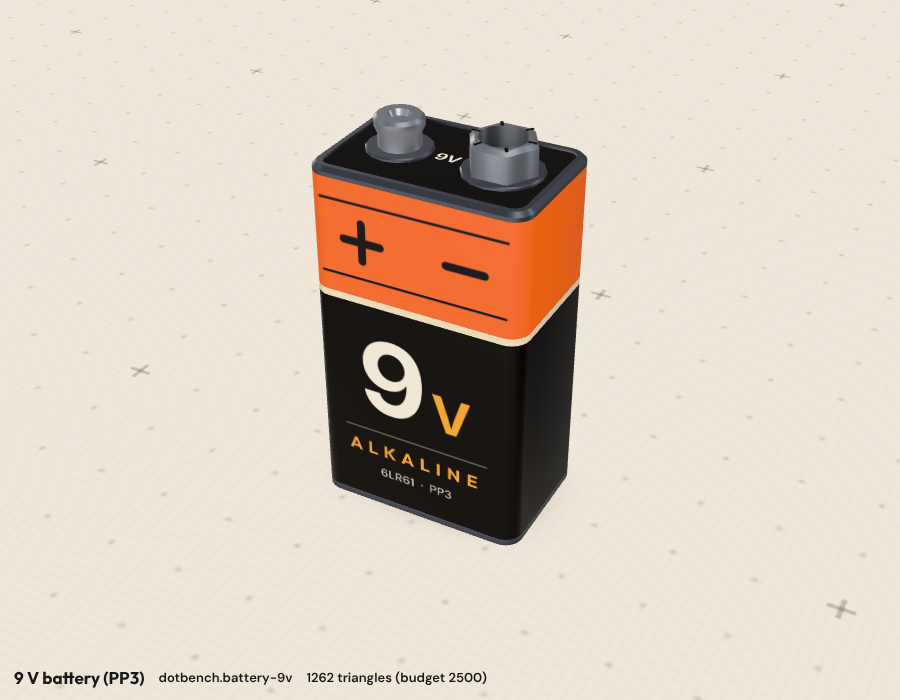
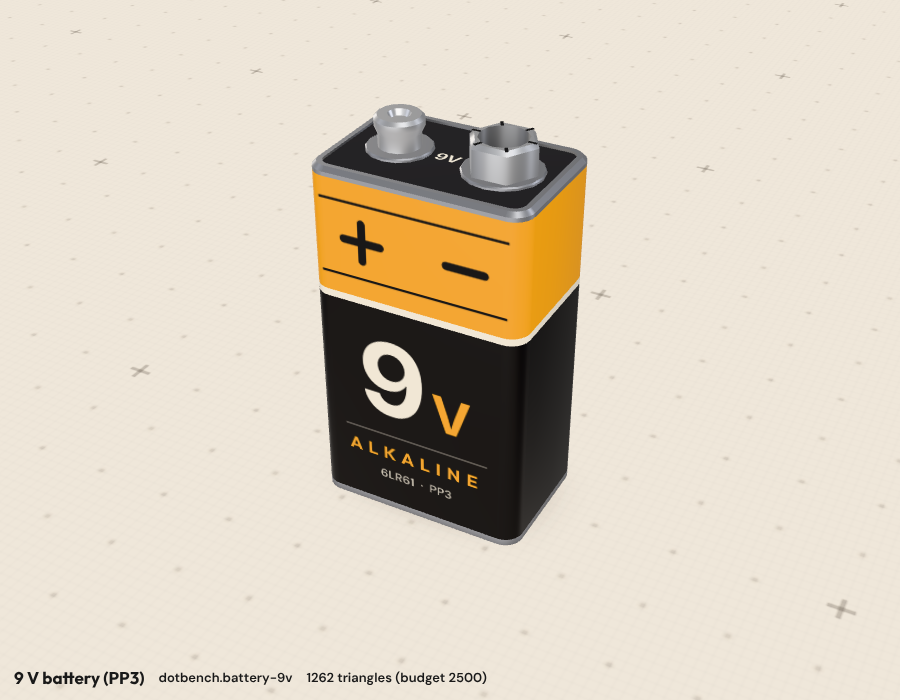
Bench3D: breadboards, battery and supply rebuilt on the corrected manifests
Breadboards: mouldings fill the footprint (the body excludes the tabs), slots
stay on the left and back edges, protruding tabs are not built; rails are red
(+) over blue (-) on both pairs with the lines where the picture has them.
Battery and supply: the hazard look is driven by the declared overload output.
The family's own colours are sRGB as they should look, for a kit that converts
a hex colour once (the fix pending on main); the shots were rendered that way.

diff --git a/web/src/bench3d/models/breadboards/breadboard.ts b/web/src/bench3d/models/breadboards/breadboard.ts
@@ -14,9 +14,14 @@
  * - Rail lines, + and - signs, column numbers and row letters are PRINT (one decal per 1024 px of board length).
  *
  * The body is the usual three mouldings (two rail strips and the terminal block with its centre channel) joined
- * along two seams, dovetail tabs on the right and front, matching slots on the left and back, foam tape underneath.
- * Sizes after the MB-102 family: holes 1.1 mm square under a 1.66 mm lead-in, channel 3 mm wide, body 8.5 mm high.
- * The tabs must stay inside the manifest's footprint, so the mouldings are 1.2 mm smaller all round than the footprint.
+ * along two seams, foam tape underneath. Sizes after the MB-102 family: holes 1.1 mm square under a 1.66 mm lead-in,
+ * channel 3 mm wide, body 8.5 mm high.
+ * Dovetails: the manifest's body is the moulding WITHOUT its tabs, and a model may not leave its footprint, so the
+ * mouldings fill the footprint, the slots are cut in the left and back edges, and the tabs of the right and front
+ * edges are not built (they would stand 1.1 mm outside; on boards placed side by side they are inside the
+ * neighbour's slots anyway).
+ * Rails: in each pair the row further from the viewer is + (red line), the nearer one - (blue), the lines on the
+ * outside of the pair, as in the parts' picture.svg.
  */
 import { MeshBuilder, type V3 } from '../../../device3d/meshBuilder';
 import {
@@ -25,7 +30,8 @@ import {
 } from '../../index';
 import { extrude, face, roundLoop, type Rect } from './builders';
 
-const BODY_WHITE = '#ebeef1';
+// Colours are sRGB as they should look (the kit converts a hex colour to linear once).
+const BODY_WHITE = '#d4dae0';
 
 /** What the builder reads of parts/breadboard-<size>/manifest.json. */
 export interface BoardManifest {
@@ -37,8 +43,8 @@ export interface BoardManifest {
 
 // ---- the moulding (design values; everything about the holes' places comes from the manifest)
 const BODY: Finish = ['gloss', BODY_WHITE]; // ABS has a sheen; a cool white, so the board stands off the warm table
-const INSET = 1.2; // the mouldings stop this far inside the footprint: room for the tabs
-const TAB = 1.1; // how far a dovetail tab stands out
+const SLOT = 1.1; // how deep a dovetail slot is cut
+const RAIL_LINE = 2.1; // from a rail row to its coloured line
 const FOAM = 0.9; // the adhesive foam and its backing paper
 const BEVEL = 0.32;
 const SEAM_R = 0.55; // the corners of each moulding where two meet: the seam reads as a fine groove down the side
@@ -66,7 +72,7 @@ interface Layout {
   Z: number;
   rails: Trough[];
   strips: Trough[];
-  /** z of each rail row, sorted, and whether its line is red (+, the outer row) or blue (-). */
+  /** z of each rail row, sorted, and whether it is + (red line; the back row of its pair) or - (blue). */
   railRows: { z: number; plus: boolean; x0: number; x1: number; lineZ: number }[];
   /** x of every column of the terminal block with its number, z of every row with its letter. */
   cols: { x: number; n: number }[];
@@ -74,8 +80,9 @@ interface Layout {
   seamTop: number;
   seamBot: number;
   mid: number;
-  tabsX: number[];
-  tabsZ: number[];
+  /** Where the dovetail slots are: along the back edge (x) and the left edge (z). */
+  slotsX: number[];
+  slotsZ: number[];
 }
 
 const near = (a: number, b: number) => Math.abs(a - b) < 0.02;
@@ -108,7 +115,7 @@ export function layoutOf(m: BoardManifest): Layout {
     split.push({ ...t, u: run });
   }
   const rails = split.filter((t) => t.alongX), strips = split.filter((t) => !t.alongX);
-  const X = body.w_mm / 2 - INSET, Z = body.d_mm / 2 - INSET;
+  const X = body.w_mm / 2, Z = body.d_mm / 2;
   const railZ = [...new Set(rails.map((t) => t.v))].sort((a, b) => a - b);
   const rowZ = [...new Set(strips.flatMap((t) => t.u))].sort((a, b) => a - b);
   const colX = [...new Set(strips.map((t) => t.v))].sort((a, b) => a - b);
@@ -118,9 +125,8 @@ export function layoutOf(m: BoardManifest): Layout {
   const railRows = railZ.map((z) => {
     const mine = rails.filter((t) => t.v === z);
     const pair = z < mid ? topRails : botRails;
-    const outer = Math.abs(z - mid) === Math.max(...pair.map((q) => Math.abs(q - mid)));
     const away = Math.sign(z - pair.reduce((a, q) => a + q, 0) / pair.length) || Math.sign(z - mid);
-    return { z, plus: outer, x0: Math.min(...mine.map((t) => t.u[0])), x1: Math.max(...mine.map((t) => t.u[t.u.length - 1])), lineZ: z + away * 1.42 };
+    return { z, plus: z === Math.min(...pair), x0: Math.min(...mine.map((t) => t.u[0])), x1: Math.max(...mine.map((t) => t.u[t.u.length - 1])), lineZ: z + away * RAIL_LINE };
   });
   // the names say which column and row a hole is: "c17" is row c, column 17
   const cols = colX.map((x) => {
@@ -131,10 +137,10 @@ export function layoutOf(m: BoardManifest): Layout {
     const pin = m.pins.find((p) => p.mm && /^[a-z]\d+$/.test(p.name) && near(fromManifestMm(body, p.mm)[2], z))!;
     return { z, letter: pin.name[0] };
   });
-  const nTabs = Math.max(2, Math.round((2 * X) / 41));
-  const tabsX = Array.from({ length: nTabs }, (_, k) => ((k + 0.5) / nTabs - 0.5) * 2 * X);
-  const tabsZ = [(seamTop + mid - TRENCH / 2) / 2, (seamBot + mid + TRENCH / 2) / 2];
-  return { body, pitch, X, Z, rails, strips, railRows, cols, rows, seamTop, seamBot, mid, tabsX, tabsZ };
+  const nSlots = Math.max(2, Math.round((2 * X) / 41));
+  const slotsX = Array.from({ length: nSlots }, (_, k) => ((k + 0.5) / nSlots - 0.5) * 2 * X);
+  const slotsZ = [(seamTop + mid - TRENCH / 2) / 2, (seamBot + mid + TRENCH / 2) / 2];
+  return { body, pitch, X, Z, rails, strips, railRows, cols, rows, seamTop, seamBot, mid, slotsX, slotsZ };
 }
 
 // ------------------------------------------------------------------------------------------------- geometry
@@ -153,11 +159,11 @@ function outline(r: Rect, o: { slotsBack?: number[]; slotsLeft?: number[]; radii
   };
   // back edge from left to right, then down the right, along the front, up the left
   add(r.x0, r.z0, o.radii[0]);
-  for (const c of o.slotsBack ?? []) for (const [a, k] of dovetail(c, 0.1)) add(a, r.z0 + k * (TAB + 0.1), k ? 0.15 : 0);
+  for (const c of o.slotsBack ?? []) for (const [a, k] of dovetail(c, 0.1)) add(a, r.z0 + k * SLOT, k ? 0.15 : 0);
   add(r.x1, r.z0, o.radii[1]);
   add(r.x1, r.z1, o.radii[2]);
   add(r.x0, r.z1, o.radii[3]);
-  for (const c of [...(o.slotsLeft ?? [])].reverse()) for (const [a, k] of dovetail(c, 0.1).reverse()) add(r.x0 + k * (TAB + 0.1), a, k ? 0.15 : 0);
+  for (const c of [...(o.slotsLeft ?? [])].reverse()) for (const [a, k] of dovetail(c, 0.1).reverse()) add(r.x0 + k * SLOT, a, k ? 0.15 : 0);
   return roundLoop(pts, rad, 3);
 }
 
@@ -230,9 +236,9 @@ function buildBody(L: Layout, ctx: BuildCtx): Shape {
 
   // the four mouldings that carry holes, each with its field of holes left open in the top
   const pieces: { r: Rect; slotsBack?: number[]; slotsLeft?: number[]; radii: [number, number, number, number]; of: Trough[]; rail: boolean }[] = [
-    { r: { x0: -X, x1: X, z0: -Z, z1: seamTop - SEAM / 2 }, slotsBack: L.tabsX, radii: [1.1, 1.1, SEAM_R, SEAM_R], of: L.rails.filter((t) => t.v < mid), rail: true },
-    { r: { x0: -X, x1: X, z0: seamTop + SEAM / 2, z1: mid - TRENCH / 2 }, slotsLeft: [L.tabsZ[0]], radii: [SEAM_R, SEAM_R, SEAM_R, SEAM_R], of: L.strips.filter((t) => t.u[0] < mid), rail: false },
-    { r: { x0: -X, x1: X, z0: mid + TRENCH / 2, z1: seamBot - SEAM / 2 }, slotsLeft: [L.tabsZ[1]], radii: [SEAM_R, SEAM_R, SEAM_R, SEAM_R], of: L.strips.filter((t) => t.u[0] > mid), rail: false },
+    { r: { x0: -X, x1: X, z0: -Z, z1: seamTop - SEAM / 2 }, slotsBack: L.slotsX, radii: [1.1, 1.1, SEAM_R, SEAM_R], of: L.rails.filter((t) => t.v < mid), rail: true },
+    { r: { x0: -X, x1: X, z0: seamTop + SEAM / 2, z1: mid - TRENCH / 2 }, slotsLeft: [L.slotsZ[0]], radii: [SEAM_R, SEAM_R, SEAM_R, SEAM_R], of: L.strips.filter((t) => t.u[0] < mid), rail: false },
+    { r: { x0: -X, x1: X, z0: mid + TRENCH / 2, z1: seamBot - SEAM / 2 }, slotsLeft: [L.slotsZ[1]], radii: [SEAM_R, SEAM_R, SEAM_R, SEAM_R], of: L.strips.filter((t) => t.u[0] > mid), rail: false },
     { r: { x0: -X, x1: X, z0: seamBot + SEAM / 2, z1: Z }, radii: [SEAM_R, SEAM_R, 1.1, 1.1], of: L.rails.filter((t) => t.v > mid), rail: true },
   ];
   for (const p of pieces) {
@@ -265,12 +271,8 @@ function buildBody(L: Layout, ctx: BuildCtx): Shape {
   }
   s.add(BODY[0], BODY[1], shade.build());
   // the seams: a rail strip is a moulding of its own, a dark line runs between it and the terminal block
-  for (const z of [seamTop, seamBot]) s.box('matte', '#5d6066', 0, z, 2 * X - 0.5, SEAM + 0.2, FOAM, top - 0.75, 0.05, 0, { ao: 0.7 });
+  for (const z of [seamTop, seamBot]) s.box('matte', '#1e2024', 0, z, 2 * X - 0.5, SEAM + 0.2, FOAM, top - 0.75, 0.05, 0, { ao: 0.7 });
 
-  // dovetail tabs: on the right edge of the terminal block and along the front rail strip
-  const tabTop = top - 1.5;
-  for (const z of L.tabsZ) s.prism(...BODY, dovetail(z, 0).map(([a, k]) => [X - 0.3 + k * (TAB + 0.3), a] as Pt), FOAM, tabTop, 0.2, { ao: 0.6 });
-  for (const x of L.tabsX) s.prism(...BODY, dovetail(x, 0).map(([a, k]) => [a, Z - 0.3 + k * (TAB + 0.3)] as Pt), FOAM, tabTop, 0.2, { ao: 0.6 });
   return s;
 }
 
@@ -311,7 +313,8 @@ function legends(L: Layout, g: CanvasRenderingContext2D): void {
   }
   // row letters at both ends
   const x0 = L.cols[0].x, x1 = L.cols[L.cols.length - 1].x;
-  const off = Math.min(1.95, (x0 + L.X) / 2 + 0.47);
+  // between the bottom of a slot and the mouths of the first column
+  const off = Math.min(1.95, (x0 - OPEN + L.X - SLOT) / 2 + OPEN);
   for (const r of L.rows) {
     text(g, r.letter, x0 - off, r.z + 0.05, 1.55, { weight: 700, font: FONT });
     text(g, r.letter, x1 + off, r.z + 0.05, 1.55, { weight: 700, font: FONT });

diff --git a/web/src/bench3d/models/breadboards/battery-9v.model.ts b/web/src/bench3d/models/breadboards/battery-9v.model.ts
@@ -3,8 +3,8 @@
  * stud is +, the six-sided crown is -. A lacquered steel jacket with rolled rims and a generic label: a coloured
  * band with the polarity, the voltage, the chemistry and the size codes; no name and no mark of any maker.
  * Live state: the voltage (field `volts`) is the big numeral of the label and the small one between the snaps, where
- * the part's picture shows it. Hazard: above the manifest's `max_ma` the cell overheats: a red-hot glow that beats
- * faster and stronger up to a dead short.
+ * the part's picture shows it. Hazard: while the part's output `overload` is set (above the manifest's `max_ma`, or
+ * plus wired to minus) the cell overheats: a red-hot glow that beats faster and stronger up to a dead short.
  */
 import manifest from '../../../../../parts/battery-9v/manifest.json';
 import {
@@ -23,7 +23,7 @@ const PLATE = M.body.h_mm - 4.1; // the snaps stand 4.1 mm over the top plate
 const RIM = PLATE + 0.3;
 const BAND = 29.6; // where the amber band of the label begins
 
-const CREAM = '#f5eede', GRAPHITE = '#1c1c1f', AMBER = '#ffac00';
+const CREAM = '#f5eede', GRAPHITE = '#121214', AMBER = '#ffac00';
 
 // the numerals are drawn per copy; `animate` may not allocate, so the value travels here
 const pen = { volts: DEFAULT_VOLTS };
@@ -152,13 +152,13 @@ export default defineModel<PartState>({
     drawScreen(obj, 'volts', key, drawFront);
     drawScreen(obj, 'top', key, drawTop);
     const heat = part(obj, 'heat')!;
-    const ma = Math.abs(Number(st.outputs.current_ma ?? 0));
-    if (ma <= MAX_MA) {
+    if (!st.outputs.overload) {
       heat.visible = false;
       return;
     }
-    // 0 just over the limit, 1 at a dead short (several times the limit)
-    const over = Math.min(1, (ma - MAX_MA) / (MAX_MA * 4));
+    // how hard: 0 just over the limit, 1 at a dead short (several times the limit)
+    const ma = Math.abs(Number(st.outputs.current_ma ?? 0));
+    const over = Math.min(1, Math.max(0, (ma - MAX_MA) / (MAX_MA * 4)));
     const beat = 0.5 + 0.5 * Math.sin(env.time * (6 + over * 12));
     heat.visible = true;
     heat.scale.set(1 + 0.012 * beat, 1, 1 + 0.02 * beat);
@@ -169,7 +169,7 @@ export default defineModel<PartState>({
     idle: partState({ fields: { volts: DEFAULT_VOLTS }, outputs: { current_ma: 0 } }),
     'set-7v5': partState({ fields: { volts: 7.5 }, outputs: { current_ma: 20 } }),
     loaded: partState({ fields: { volts: DEFAULT_VOLTS }, outputs: { current_ma: 320 } }),
-    overload: partState({ fields: { volts: DEFAULT_VOLTS }, outputs: { current_ma: 800 } }),
-    short: partState({ fields: { volts: DEFAULT_VOLTS }, outputs: { current_ma: 4500 } }),
+    overload: partState({ fields: { volts: DEFAULT_VOLTS }, outputs: { current_ma: 800, overload: true } }),
+    short: partState({ fields: { volts: DEFAULT_VOLTS }, outputs: { current_ma: 4500, overload: true } }),
   },
 });

diff --git a/web/src/bench3d/models/breadboards/supply.model.ts b/web/src/bench3d/models/breadboards/supply.model.ts
@@ -4,8 +4,9 @@
  * 3.3 V or 5 V. The module built round that (it is our own design, no real product): USB-C power in on the left
  * edge, a three-way slide switch along the front (OFF / 3V3 / 5V), a two-way socket for the output where the
  * terminals are, a linear regulator in SOT-223 with its two tantalum capacitors, a power LED.
- * Live state: the knob stands at the chosen output, the LED is lit when there is one. Hazard: above the manifest's
- * `max_ma` the regulator glows red-hot and the LED flickers red.
+ * Live state: the knob stands at the chosen output, the LED is lit when there is one. Hazard: while the part's
+ * output `overload` is set (above the manifest's `max_ma`, or plus wired to minus) the regulator glows red-hot and
+ * the LED flickers red.
  */
 import manifest from '../../../../../parts/supply/manifest.json';
 import {
@@ -86,8 +87,8 @@ export default defineModel<PartState>({
     for (let i = 1; i < STOPS.length; i++) if (Math.abs(STOPS[i] - mv) < Math.abs(STOPS[stop] - mv)) stop = i;
     part(obj, 'knob')!.position.x = (stop - (STOPS.length - 1) / 2) * TRAVEL;
     const ma = Math.abs(Number(st.outputs.current_ma ?? 0));
-    if (on && ma > MAX_MA) {
-      const over = Math.min(1, (ma - MAX_MA) / MAX_MA);
+    if (st.outputs.overload) {
+      const over = Math.min(1, Math.max(0, (ma - MAX_MA) / MAX_MA));
       setLamp(obj, 'reg', HOT, 0.55 + over * 0.45 + 0.25 * Math.sin(env.time * 14));
       setLamp(obj, 'pwr', RED, Math.floor(env.time * 9) % 2 === 0 ? 1.4 : 0.15);
       return true;
@@ -99,6 +100,6 @@ export default defineModel<PartState>({
     'on-5v': partState({ fields: { mv: 5000 }, outputs: { current_ma: 120 } }),
     'on-3v3': partState({ fields: { mv: 3300 }, outputs: { current_ma: 40 } }),
     off: partState({ fields: { mv: 0 }, outputs: { current_ma: 0 } }),
-    overload: partState({ fields: { mv: 5000 }, outputs: { current_ma: 1600 } }),
+    overload: partState({ fields: { mv: 5000 }, outputs: { current_ma: 1600, overload: true } }),
   },
 });

diff --git a/web/src/bench3d/models/breadboards/builders.ts b/web/src/bench3d/models/breadboards/builders.ts
@@ -222,10 +222,10 @@ export function pp3Snaps(s: Shape, o: { pos: V3; neg: V3; y: number; seg?: numbe
   // - : a crown of six spring petals round an opening
   s.disc(...PAL.steel, nx, nz, 4.7, y, y + 0.4, 0.15, seg, { ao: 1 });
   s.prism(...PAL.tin, circleLoop(nx, nz, 4.1, 6), y + 0.35, y + hn, 0.5, { ao: 0.88, holes: [circleLoop(nx, nz, 2.85, Math.max(8, seg - 4))] });
-  s.disc('metal', '#6a6d74', nx, nz, 2.9, y + 0.35, y + 0.6, 0, Math.max(8, seg - 4), { ao: 1 });
+  s.disc('metal', '#33353a', nx, nz, 2.9, y + 0.35, y + 0.6, 0, Math.max(8, seg - 4), { ao: 1 });
   for (let i = 0; i < 6; i++) {
     const m = new Matrix4().makeTranslation(nx, 0, nz).multiply(new Matrix4().makeRotationY((i / 6) * Math.PI * 2));
-    s.with(m, () => s.box('matte', '#26272a', 3.3, 0, 1.0, 0.36, y + hn - 0.03, y + hn + 0.01, 0.05, 0, { ao: 1 }));
+    s.with(m, () => s.box('matte', '#101113', 3.3, 0, 1.0, 0.36, y + hn - 0.03, y + hn + 0.01, 0.05, 0, { ao: 1 }));
   }
 }
 
